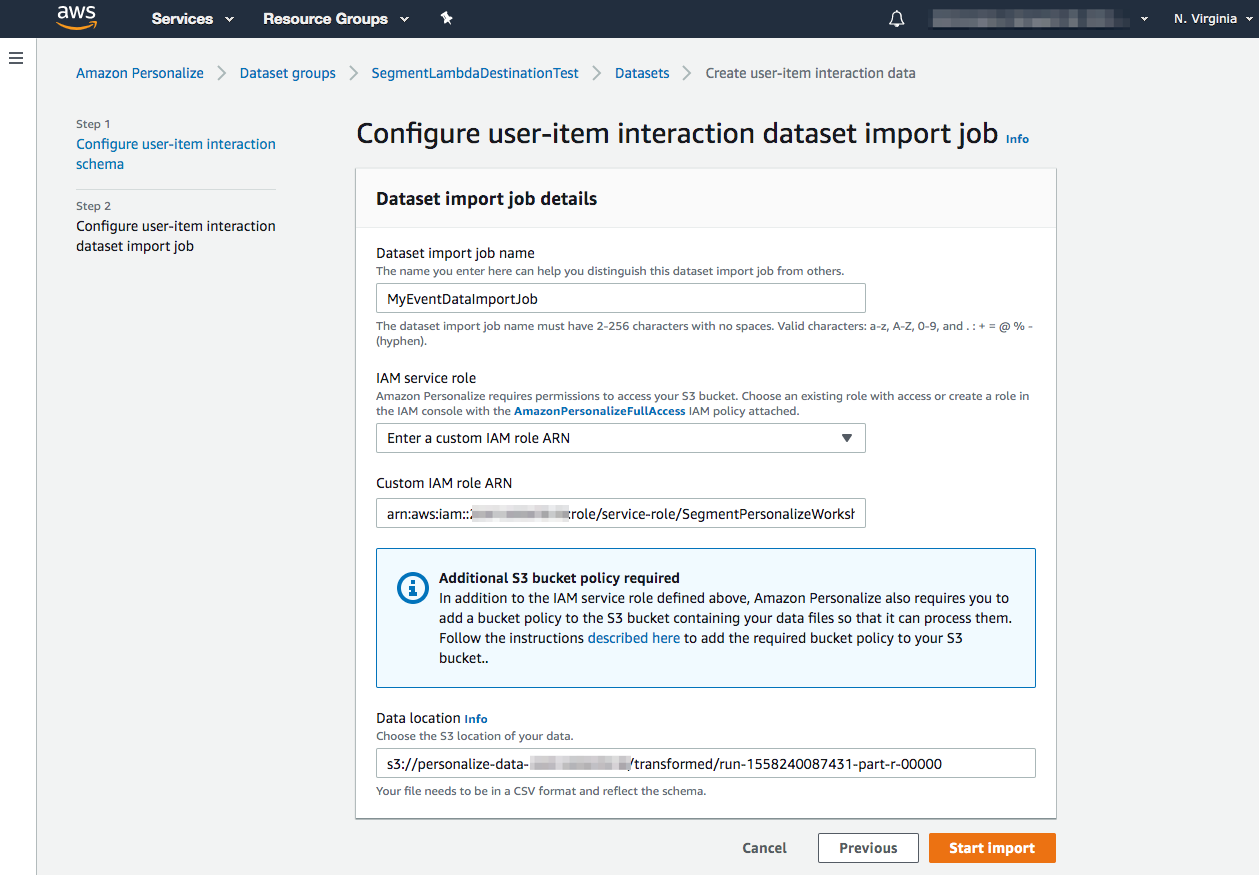
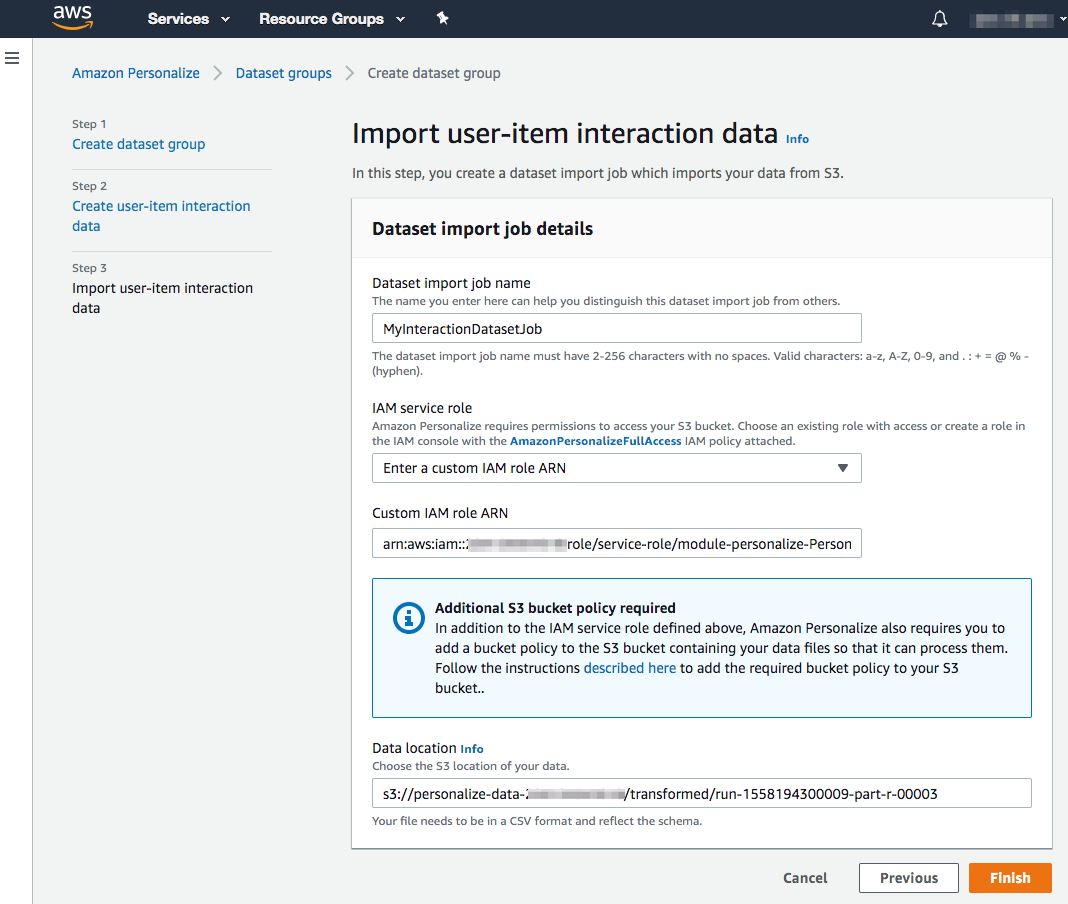
Content updates for Ex 1 & 2

diff --git a/exercise1/README.md b/exercise1/README.md
@@ -8,11 +8,11 @@ One of Segment's core capabilities is the ability collect semantic events and pr
 
 In this exercise we will walk through the process required to take historical clickstream data collected by Segment to train a model in Amazon Personalize. The advantage of bootstrapping Personalize with historical clickstream data is that you will start with a model that reflects your users's latest purchases and browsing behavior.
 
-Segment provides the ability to send event data from one or more data sources configured in your Segment account to several AWS services including S3, Kinesis, and Redshift. Since the raw format, fields, and event types in the Segment event data cannot be directly uploaded to Amazon Personalize for model training, this exercise will guide you through the process of transforming the data into the format expected by Personalize.
+Segment provides the ability to send event data from one or more data sources configured in your Segment account to several AWS services including Amazon Simple Storage Service (S3), Amazon Kinesis, and Amazon Redshift. Since the raw format, fields, and event types in the Segment event data cannot be directly uploaded to Amazon Personalize for model training, this exercise will guide you through the process of transforming the data into the format expected by Personalize.
 
-In the interest of time for the workshop, we will start with data that has already been written to an Amazon S3 bucket by the Segment S3 destination. The [format](https://segment.com/docs/destinations/amazon-s3/#data-format) of these files is compressed JSON where events are grouped into directories by Segment source ID and time. Since the Personalize service requires training data to be uploaded in CSV format, we will need to aggregate, filter, and transform the raw JSON into a single CSV file using an ETL job. We will use AWS Glue for this step. However, before creating our Glue ETL job, we'll learn how to use Amazon Athena to easily explore our training data. Being able to quickly inspect and investigate training data can be invaluable in gaining insight from and resolving issues.
+In the interest of time for the workshop, we will start with data that has already been written to an Amazon S3 bucket by the Segment S3 destination. The [format](https://segment.com/docs/destinations/amazon-s3/#data-format) of these files is compressed JSON where events are grouped into directories by Segment source ID and time. Since the Personalize service requires training data to be uploaded in CSV format, we will need to aggregate, filter, and transform the raw JSON into a single CSV file using an ETL job. We will use AWS Glue for this step. However, before creating our Glue ETL job, we'll learn how to use Amazon Athena to easily explore our training data. Being able to quickly inspect and investigate training data can be invaluable in gaining insight from and resolving data related issues.
 
-> There is a minimum amount of data that is necessary to train a model. Using existing historical data allows you to immediately start training a solution. If you ingest data as it is created, and there is no historical data, it can take a while before training can begin.
+> There is a minimum amount of data that is necessary to train a model in Personalize. Using existing historical data allows you to immediately start training a solution. If you ingest data as it is created, and there is no historical data, it can take a while before training can begin.
 
 ### What You'll Be Building
 
@@ -25,28 +25,26 @@ In this exercise we will walk through the process required to take the raw histo
 * Kinesis Data Firehose
 * Redshift
 
-For this exercise we will walk you through how to setup an S3 destination in your Segment account. In the interest of time, though, we will provide a pre-made test dataset that you will upload to S3 yourself. Then you will use AWS Glue to create an ETL (extract, transform, load) Job that will filter and transform the raw JSON file into the format required by Personalize. The output file will be written back to S3. Finally, you will learn how to use Amazon Athena to query and visualize the data in the transformed file directly from S3.
+For this exercise we will walk you through how to setup an S3 destination in your Segment account. In the interest of time, though, we will provide access to pre-populated in an existing S3 bucket. Then you will learn how to use Amazon Athena to query and visualize the JSON files directly from S3. Finally, you will use AWS Glue to create an ETL (extract, transform, load) Job that will filter and transform the raw JSON files into the format required by Personalize. The output file will be written back to S3 in your account. 
 
-> The Segment Amazon S3 destination is just one method for collecting historical training data for Personalize. If you're already using [Segment's Amazon Redshift Data Warehouse destination](https://segment.com/docs/destinations/redshift/), you can easily extract (or unload) data from your Redshift instance as a CSV suitable for uploading into Personalize. See the [sql/redshift_unload_as_csv.sql](sql/redshift_unload_as_csv.sql) file.
+> The Segment Amazon S3 destination is just one method for collecting historical training data for Personalize. If you're already using [Segment's Amazon Redshift Data Warehouse destination](https://segment.com/docs/destinations/redshift/), you can easily extract (or unload) data from your Redshift instance to a CSV file in S3 that is suitable for uploading into Personalize. See the [sql/redshift_unload_as_csv.sql](sql/redshift_unload_as_csv.sql) file for a sample SQL statement.
 
-**Exercise Preparation**
+### Exercise Preparation
+
 If you have not already cloned this repository to your local machine, do so now.
-
 
     git clone https://github.com/james-jory/segment-personalize-workshop.git
 
-**Claim your Segment Workspace**
-For the live workshop exercises, Segment has provisioned 80 workspaces for the workshop.  If you are doing this workshop after the live event, you will need a new Business Tier workspace with Personas enabled from Segment, or you will need to use your existing Segment workspace. If you do not have one, please contact your Segment sales representative at https://segment.com/contact/sales/.
+### Claim your Segment Workspace
+
+For the live workshop exercises, Segment has pre-provisioned workspaces for the workshop.  If you are doing this workshop after the live event, you will need a new Business Tier workspace with Personas enabled from Segment, or you will need to use your existing Segment workspace. If you do not have one, please contact your Segment sales representative at https://segment.com/contact/sales/.
 
 To get your workshop workspace:
-
 
 1. Open the Google Sheet at [Segment Workspaces](https://docs.google.com/spreadsheets/d/1SyEDxLmquN96tsv-dhrOhduRLilWjITQyCBXCcA73U4/edit?usp=sharing)
 2. Find an unclaimed workspace
 
-
 ![](https://paper-attachments.dropbox.com/s_539A927F5DA788B557CE05EF51E8221F1D7D02D016B6CA298FD5F55304B8CA28_1558297225659_image.png)
-
 
 
 3. Claim your shiny new Segment workspace by putting your name in the appropriate fields, please.
@@ -140,7 +138,7 @@ For the web source, use the Javascript source type, for Android the Android sour
 
 ## Part 3 - Set up Segment Personas
 
-Personas will use the events that your collect from your user interactions to create individual user profiles.  This will allow you and your marketing teams to group users into audiences.  Later, you will be able to define the destinations to which you will be able to send user definitions and traits by setting up destinations in Personas.  You will also be able to add product recommendations from Personalize to each user profile in Personas.
+Personas will use the events that you collect from your user interactions to create individual user profiles.  This will allow you and your marketing teams to group users into audiences.  Later, you will be able to define the destinations to which you will be able to send user definitions and traits by setting up destinations in Personas.  You will also be able to add product recommendations from Personalize to each user profile in Personas.
 
 After setting up your sources, your workspace should look something like this:
 
@@ -209,8 +207,9 @@ Because events are synchronized from Segment to S3 on a batch basis, we will als
 
 You will need some data to be populated in Segment however, since this will allow you to create recommendations based on (simulated) user activity later on.
 
-This part can be choose your own adventure, though we strongly recommend using the AWS Cloud9 option to avoid Python package hell.  Let’s start with Cloud9.
+This part can be choose your own adventure, though we strongly recommend using the AWS Cloud9 option to avoid Python package hell. Let’s start with Cloud9.
 
+> AWS Cloud9 is a cloud-based integrated development environment (IDE) that lets you write, run, and debug code with just a browser. The purpose of using Cloud9 for this part of the workshop is to simply provide a consistent and predictable environment for running a Python script that will push sample data into your Segment workspace. Cloud9 is not required to use Segment or Personalize.
 
 1. Go to your AWS Console.
 2. Under the Services dropdown, find Cloud9
@@ -330,7 +329,7 @@ The write key for the source is in the next screen:
 25. In your Cloud9 terminal, run the script:
 
 ```
-python segment-event-generator.py 2019-05-19
+python segment-event-generator.py 2019-06-16
 ```
 
 This will generate two days worth of interaction data in your Segment instance.  If you are using this after the date shown above, your should change the date to be at least one day prior to today so that you get a long enough run of historical data.
@@ -355,16 +354,22 @@ CREATE DATABASE IF NOT EXISTS default;
 
 ![Create Athena Database](images/AthenaCreateDatabase.png)
 
-Next let's create a table in Athena that points to the historical data in S3. We have written the DDL statement for you. Open the [sql/athena_create_table.sql](sql/athena_create_table.sql) file, copy the contents to your clipboard, and paste file contents into the "New query 1" tab in the Athena console. Take a moment to inspect the "CREATE EXTERNAL TABLE..." statement. One important aspect of this DDL statement is that there are several field name mapping statements in the SERDEPROPERTIES section. These mappings address the [Athena requirement](https://docs.aws.amazon.com/athena/latest/ug/tables-databases-columns-names.html) that the only special character allowed is an underscore. Since the Segment test data has several trait names with embedded spaces, these mappings allow us to safely query this data.
+Next let's create a table in the Athena database above that points to the historical data in S3. We have written the DDL statement for you that will create this table. Open the [sql/athena_create_table.sql](sql/athena_create_table.sql) file, copy the contents to your clipboard, and paste file contents into the "New query 1" tab in the Athena console. Take a moment to inspect the `CREATE EXTERNAL TABLE...` statement. One important aspect of this DDL statement is that there are several field name mapping statements in the `SERDEPROPERTIES` section. These mappings address the [Athena requirement](https://docs.aws.amazon.com/athena/latest/ug/tables-databases-columns-names.html) that the only special character allowed database, table, view, and column names is an underscore. Since the Segment test data has several trait names with embedded spaces, these mappings allow us to safely query this data in Athena.
 
 When you're ready, press the "Run query" button to execute the statement. This will create the table in the Glue Data Catalog. Now you are ready to execute queries against the compressed JSON files. Trying inspecting the data with a few queries.
 
 ```sql
 -- What does the data look like?
 SELECT * FROM segment_logs limit 20;
+```
+
+```sql
 -- The 'event' column is what we can use for event type in training our model.
 -- What event types are available?
 SELECT COUNT(messageId) AS eventCount, event FROM segment_logs GROUP BY event ORDER BY eventCount DESC;
+```
+
+```sql
 -- In order to make recommendations we need an item/product to recommend.
 -- Our product SKU is in 'properties.sku'. What event types are available where we have a SKU?
 SELECT COUNT(messageId) AS eventCount, event FROM segment_logs WHERE properties.sku IS NOT NULL GROUP BY event ORDER BY eventCount DESC;
@@ -385,17 +390,19 @@ First, ensure that you are logged in to the AWS account provided to you for this
 Click the "Add job" button and enter the following information.
 
 * Enter a job name such as "SegmentEventsJsonToCsv".
-* For IAM role, a role has already been created for you that starts with the name "module-personalize-GlueServiceRole-...". Select this role.
+* For IAM role, a role has already been created for you that starts with the name `module-personalize-GlueServiceRole-...`. Select this role.
 * Leave Type as "Spark".
 * For "This job runs", click the radio button "A new script to be authored by you".
 * Leave everything else the same and click Next at the bottom of the form.
 * On the "Connections" step just click "Save job and edit script" since we are not accessing data in a database for this job.
 
-The source code for the Glue job has already been written for you. Copy the contents of [etl/glue_etl.py](etl/glue_etl.py) to your clipboard and paste it into the Glue editor window. Click "Save" to save the job script.
+![Glue Job Settings](images/GlueAddJobSettings.png)
+
+The source code for the Glue job has already been written for you. Copy the contents of [etl/glue_etl.py](etl/glue_etl.py) to your clipboard and paste it into the Glue editor window. Then click "Save" to save the job script.
 
 ![Glue Job Script](images/GlueEditJobScript.png)
 
-Let's review key parts of the script in more detail. First, the script is initialized with a few job parameters. We'll see how to specify these parameter values when we run the job below. For now, just see we're passing in the location where the output CSV should be written through `S3_CSV_OUTPUT_PATH`. The `JOB_NAME` parameter is passed to our job by the Glue execution framework.
+Let's review key parts of the script in more detail. First, the script is initialized with two job parameters. The `JOB_NAME` parameter is passed to our job by the Glue execution framework. Below we'll see how to specify the `S3_CSV_OUTPUT_PATH` parameter value when we run the job. This parameter tells our job where to write the CSV file.
 
 ```python
 args = getResolvedOptions(sys.argv, ['JOB_NAME', 'S3_CSV_OUTPUT_PATH'])
@@ -417,7 +424,7 @@ The first step in our Job is to load the raw JSON file as a Glue DynamicFrame. W
 datasource0 = glueContext.create_dynamic_frame_from_options("s3", {'paths': ["s3://segment-personalize-workshop/segment-logs"], 'recurse':True}, format="json")
 ```
 
-Since we only want specific events for training our Personalize model, we'll use Glue's `Filter` transformation to keep only the records we want. The `datasource0` DynamicFrame created above is passed to `Filter.apply(...)` function along with the `filter_function` function. It's in `filter_function` where we keep events that have a product SKU and `userId` specified. The resulting DynamicFrame is captured as `interactions`.
+Since we only want specific events for training our Personalize model, we'll use Glue's `Filter` transformation to keep only the records we want. The `datasource0` DynamicFrame created above is passed to `Filter.apply(...)` function along with the `filter_function` function. It's in `filter_function` where we keep events that have a userId, product SKU, and event specified. All other records are ignored. The resulting DynamicFrame is captured as `interactions`.
 
 ```python
 supported_events = ['Product Added', 'Order Completed', 'Product Clicked']
@@ -434,7 +441,7 @@ def filter_function(dynamicRecord):
 interactions = Filter.apply(frame = datasource0, f = filter_function, transformation_ctx = "interactions")
 ```
 
-Next we will call Glue's `ApplyMapping` transformation, passing the `interactions` DynamicFrame from above and field mapping specification that indicates the fields we want to retain and their new names. These mapped field names will become the column names in our output CSV. You'll notice that we're using the product SKU as the `ITEM_ID` and `event` as the `EVENT_TYPE`. We're also renaming the `timestamp` field to `TIMESTAMP_ISO` since the format of this field value in the JSON file is an ISO 8601 date and Personalize requires timestamps to be specified in UNIX time (number seconds since Epoc).
+Next we will call Glue's `ApplyMapping` transformation, passing the `interactions` DynamicFrame from above and field mapping specification that indicates the fields we want to retain and their new names. These mapped field names will become the column names in our output CSV. You'll notice that we're using the product SKU as the `ITEM_ID` and `event` as the `EVENT_TYPE` These will have meaning in the Personalize interaction schema that we will use when uploading the CSV into Personalize. We're also renaming the `timestamp` field to `TIMESTAMP_ISO` since the format of this field value in the JSON file is an ISO 8601 date and Personalize requires timestamps to be specified in UNIX time (number seconds since Epoc).
 
 ```python
 applymapping1 = ApplyMapping.apply(frame = interactions, mappings = [ \
@@ -471,27 +478,33 @@ job.commit()
 
 ### Run AWS Glue ETL Job
 
-With our ETL Job script created and saved, it's time to run the job to create the CSV needed to train a Personalize Solution. Before going any further, open another AWS console browser tab/window by right-clicking on the AWS logo in the upper left corner of the page and select "Open Link in New Tab" (or Window).
+With our ETL Job script created and saved, it's time to run the job to create the CSV needed to train a Personalize Solution. Before going any further, we need to open another AWS console browser tab/window so we can get the S3 bucket name to use in our Glue job parameter that was described above. Right-click on the AWS logo in the upper left corner of the page and select "Open Link in New Tab" (or Window). In the new tab/window, browse to the S3 service page. You should see the S3 bucket pre-created for you. It should be named something line `personalize-data-...`.
 
-While still in the Glue service console and the job listed, click the "Run job" button. This will cause the Parameters panel to display. Click the "Security configuration, script libraries, and job parameters" section header to cause the job parameters fields to be displayed.
+![S3 Bucket](images/S3Bucket.png)
+
+We will need this bucket name in a moment. Keep this tab/window open.
+
+Switch back the brower tab/window where your Glue script was created. While in the Glue service console and the job listed, click the "Run job" button. This will cause the Parameters panel to display. Click the "Security configuration, script libraries, and job parameters" section header to cause the job parameters fields to be displayed.
 
 ![Glue Job Parameters](images/GlueRunJobDialog.png)
 
-Scroll down to the "Job parameters" section. This is where we will specify the job parameters that our script expects for the path to the input data and the path to the output file. Create two job parameters with the following key and value. Be sure to prefix each key with `--` as shown. Substitute your account ID for `[ACCOUNT_ID]` in the values below. You copy the bucket name to your clipboard from the S3 service page in the tab/window you opened above.
+Scroll down to the "Job parameters" section. This is where we will specify the job parameter that our script expects for the path to the output file. Create a job parameter with the following key and value. Be sure to prefix the key with `--` as shown. For the parameter value, **substitute "YOUR_BUCKET_NAME" with the name of the S3 bucket in the other browser tab/window we opened above.**
 
 | Key                  | Value                                          |
 | -------------------- | ---------------------------------------------- |
-| --S3_CSV_OUTPUT_PATH | s3://personalize-data-[ACCOUNT_ID]/transformed |
+| --S3_CSV_OUTPUT_PATH | s3://***YOUR-BUCKET_NAME***/transformed |
 
 ![Glue Job Parameters](images/GlueRunJobParams.png)
 
-Click the "Run job" button to start the job. Once the job has started running you will see log output in the "Logs" tab at the bottom of the page. It may take a few minutes to start the execution of your job and several minutes to complete. Once your job starts executing, you can also view the log output in CloudWatch > Logs > `/aws-glue/jobs/output` while it is running.
+Click the "Run job" button to start the job. Once the job has started running you will see log output in the "Logs" tab at the bottom of the page. It may take a few minutes to start the execution of your job and several minutes to complete. Once your job starts executing, you can also view the log output in CloudWatch > Logs > `/aws-glue/jobs/output` while it is running. Note that the CloudWatch log will be created when your job starts running.
 
 When the job completes click the "X" in the upper right corner of the the page to exit the job script editor.
 
 ### Verify CSV Output File
 
-Browse to the S3 service page in the AWS console and find the bucket with a name starting with `personalize-data-...`. Click on the bucket name. If the job completed successfully you should see a folder named "transformed". Click on "transformed" and you should see the output file created by the ETL job. If the file is missing or is empty then the job likely experienced a problem. You can review the job's log under CloudWatch > Logs > `/aws-glue/jobs/output` to troubleshoot possible errors. Otherwise, you can skip the ETL step and upload a pre-generated CSV located in the [data/transformed](../data/transformed) directory of this repository (i.e. upload the pre-generated file to your `personalize-data-...` S3 bucket in the `transformed` folder using the AWS console).
+Browse to the S3 service page in the AWS console and find the bucket with a name starting with `personalize-data-...`. Click on the bucket name. If the job completed successfully you should see a folder named "transformed". Click on "transformed" and you should see the output file created by the ETL job. If the file is missing or is empty then the job likely experienced a problem. You can review the job's log under CloudWatch > Logs > `/aws-glue/jobs/output` to troubleshoot possible errors. The most common cause for the job failing is not accurately specifying the `S3_CSV_OUTPUT_PATH` job parameter key and/or value.
+
+If you are unable to get the job to complete successfully, you can skip the ETL step and upload a pre-generated CSV located in the [data/transformed](../data/transformed) directory of this repository (i.e. upload the pre-generated file to your `personalize-data-...` S3 bucket in the `transformed` folder using the AWS console). You may need to create the `transformed` folder before uploading the file.
 
 ![Glue Job Transformed File](images/GlueJobOutputFile.png)
 

diff --git a/exercise2/README.md b/exercise2/README.md
@@ -5,28 +5,29 @@
 
 Amazon Personalize requires data, uploaded into Amazon Personalize datasets, to train a model.
 
-You have two means to provide the training data. You can import historical data from an Amazon S3 bucket, and you can record data as it is created. In [exercise 1](../exercise1) we learned how to prepare historical data provided by Segment and in [exercise 4](../exercise4) we will learn how to send real-time events to Personalize using the Segment Personalize destination.
+You have two means to provide the training data. You can import historical data into Personalize from an Amazon S3 bucket and you can record data as it is created. In [exercise 1](../exercise1) we learned how to prepare historical data provided by Segment and in [exercise 4](../exercise4) we will learn how to send real-time events to Personalize using the Segment Personalize destination.
 
-A dataset group contains related datasets, three created by you (users, items, and historical interactions), and one created by Amazon Personalize for live event interactions. A dataset group can contain only one of each kind of dataset.
+A dataset group contains related datasets, three created by you (users, items, and historical interactions), and one created by Amazon Personalize for live event interactions. A dataset group can contain only one of each type of dataset.
 
-You can create dataset groups to serve different purposes. For example, you might have an application that provides recommendations for purchasing shoes and another that gives recommendations for places to visit in Europe. In Amazon Personalize, each application would have its own dataset group.
+You can create multiple dataset groups to serve different purposes. For example, you might have an application that provides recommendations for purchasing shoes and another that gives recommendations for places to visit in Europe. In Amazon Personalize, each application would have its own dataset group.
 
 Historical data must be provided in a CSV file. Each dataset type has a unique schema that specifies the contents of the file.
 
 There is a minimum amount of data that is necessary to train a model. Using existing historical data allows you to immediately start training a solution. If you ingest data as it is created, and there is no historical data, it can take a while before training can begin.
 
-You can use the Amazon Personalize console to import data into a dataset. Alternatively you can use the AWS SDK.
+You can use the Amazon Personalize console to import data into a dataset, build a solution, and create a campaign. Alternatively you can use the AWS SDK to orchestrate the process from your own application code.
 
 ### What You'll Be Building
 
 ![Exercise 2 Architecture](images/Architecture-Exercise2.png)
 
-In the previous [exercise](../exercise1/) we learned how to use AWS Glue to take the raw event data written to S3 by Segment and transform it into the format required by Personalize. In this exercise we will pick up where we left off and learn how to create a dataset group and campaign in Personalize by performing the following steps.
+In the previous [exercise](../exercise1/) we learned how to use AWS Glue to take the raw event data written to S3 by Segment and transform it into the format required by Personalize. In this exercise we will pick up where we left off and learn how to create a dataset group, solution, and campaign in Personalize by performing the following steps.
 
 * Create a dataset group in Personalize
 * Define the schema representing the event data in our CSV
 * Upload our CSV into an interaction dataset in the dataset group
 * Create a Personalize Solution, or machine learning model, using the data in the dataset group and a Personalize recipe
+* Create a Personalize Campaign based on our Solution
 
 ### Exercise Preparation
 
@@ -40,23 +41,21 @@ git clone https://github.com/james-jory/segment-personalize-workshop.git
 
 Browse to the Amazon Personalize service landing page in the AWS console, making sure that you are still in the "N. Virginia" region.
 
-Click the "View dataset groups" button to get started.
+Click the "Get started" button to get started.
 
 ![Personalize Start Page](images/PersonalizeStart.png)
 
-On the Dataset Groups page, click the "Create dataset group" button.
+Enter a name for your dataset group and click "Next".
 
-![Personalize Dataset Groups](images/PersonalizeDatasetGroups.png)
+![Personalize Create Dataset Group](images/PersonalizeCreateDatasetGroup.png)
 
-On the "Create dataset group" page, give your dataset group a name. Select the "Upload user-item interaction data" radio button since we will be uploading the CSV we prepared in the [previous exercise](../exercise1). Click "Next" to contiue.
+Enter a name for your interaction dataset. This will be the dataset where we will upload the CSV file.
 
-![Personalize Create Dataset Group](images/PersonalizeCreateGroup.png)
+![Personalize Create Dataset](images/PersonalizeCreateDataset.png)
 
-On the "Create user-item interaction data" page, select the "Create new schema" radio button and give your schema a name.
+Scroll down to the "Schema details" and ensure that "Create new schema" is selected. Enter a name for your schema. Next we need to specify the schema for the interaction dataset. This schema will map to the columns in the CSV we created in the [previous exercise](../exercise1).
 
-![Personalize Interaction Dataset Schema](images/PersonalizeSchema.png)
-
-Scroll down to the "Schema definition" editor. Dataset schemas in Personalize are represented in [Avro](https://avro.apache.org/docs/current/spec.html).
+Dataset schemas in Personalize are represented in [Avro](https://avro.apache.org/docs/current/spec.html).
 
 > Avro is a remote procedure call and data serialization framework developed within Apache's Hadoop project. It uses JSON for defining data types and protocols, and serializes data in a compact binary format.
 
@@ -93,19 +92,19 @@ Let's review the schema in more detail. The required fields for the user-item in
 
 Copy the contents of Avro schema to your clipboard and paste it into the "Schema definition" editor (replacing the proposed schema). Click "Next" to save the schema and move to the next step.
 
-![Personalize Event Avro Schema](images/PersonalizeEventAvroSchema.png)
+![Personalize Interaction Dataset Schema](images/PersonalizeSchema.png)
 
 The "Import user-item interaction data" step is displayed next. To complete this form we will need to get two pieces of information from IAM and S3. Give your import job a name. For the "IAM service role", select "Enter a customer IAM role ARN" from the dropdown. For instructions on completing the remaining fields, see the instructions below.
 
 ![Personalize Interaction Dataset Import Job](images/PersonalizeImportJob.png)
 
-To obtain the IAM and S3 information we need to complete this form, we need to keep the current page open while opening a new tab or window to find the needed information. We'll start with the IAM role.
+To obtain the IAM and S3 information we need for this form, we will open a new tab or window to find the needed information. We'll start with the IAM role.
 
 1. Open up a new browser window or tab in your current console session by right-clicking on the "AWS" logo in the upper-left corner of the page and choosing "Open Link in New Tab" or "Open Link in New Window" (the menu options may be worded differently in the web browser you're using).
 2. In the __new tab/window that was opened__, browse to the IAM service page.
-3. Select "Roles" in the left navigation and find the IAM role with the name "module-personalize-PersonalizeServiceRole-...".
+3. Select "Roles" in the left navigation and find the IAM role with the name "module-personalize-PersonalizeServiceRole-...". This role was pre-created for you for this workshop and allows Personalize to access the S3 bucket where your CSV is located.
 4. Click on this role name to display the role's detail page.
-5. The "Role ARN" is displayed at the top of the "Summary" section. Click on the copy icon displayed at the end of Role ARN to copy the ARN to your clipboard. 
+5. The "Role ARN" is displayed at the top of the "Summary" section. Click on the copy icon displayed at the end of Role ARN to copy the ARN to your clipboard.
 6. Switch browser tabs/windows back to the Personalize "Import user-item interaction data" form and paste the ARN into the "Custom IAM role ARN" field.
 
 ![Personalize Role ARN](images/PersonalizeRoleARN.png)
@@ -127,9 +126,9 @@ After clicking the "Finish" (or "Start import") button at the bottom of the page
 
 ## Part 2 - Create Personalize Solution
 
-Once our event CSV is finished importing into a user-item interaction dataset, we can create a Personalize Solution. This is where the ML model is created. From the Dashboard page for the dataset group we created above, click the "Start" button in the "Create solutions" column.
+Once our interaction CSV is finished importing into a user-item interaction dataset, we can create a Personalize Solution. This is where the ML model is created. From the Dashboard page for the dataset group we created above, click the "Start" button in the "Create solutions" column.
 
-> We are skipping the event ingestion step for now and will come back to it in [exercise 4](../exercise4).
+> Note: We are skipping the event ingestion step for now and will come back to it in [exercise 4](../exercise4).
 
 ![Create Personalize Solution](images/PersonalizeCreateSolution.png)
 

diff --git a/exercise3/README.md b/exercise3/README.md
@@ -110,6 +110,6 @@ This will send a request through API Gateway which will call our Lambda function
 
 ![API Gateway Test](images/APIGW_TestGetResults.png)
 
-As you can see, the GetRecommendations endpoint for Personalize returns itemIds for recommended items for the specified user. Typically you would then use these itemIds to retrieve meta infromation such as item names, descriptions, and images from, say, a database or API in your application.
+As you should see in the "Response Body", the GetRecommendations endpoint for Personalize returns an "itemList" of item IDs for recommended items for the specified user. Typically you would then use these item IDs to retrieve meta infromation such as item names, descriptions, and images from, say, a database or product microservice in your application. One approach would be to update the Lambda function you created in this exercise to iterate over the itemIds in the itemList, retrieve product information for each item, build a response including this information, and return it to the caller.
 
 In the final [exercise](../exercise4) we will bring everything together and learn how to integrate recommendations from Personalize with your customer profiles in Segment. This allows you to activate recommendations across other integrations in your Segment account.
